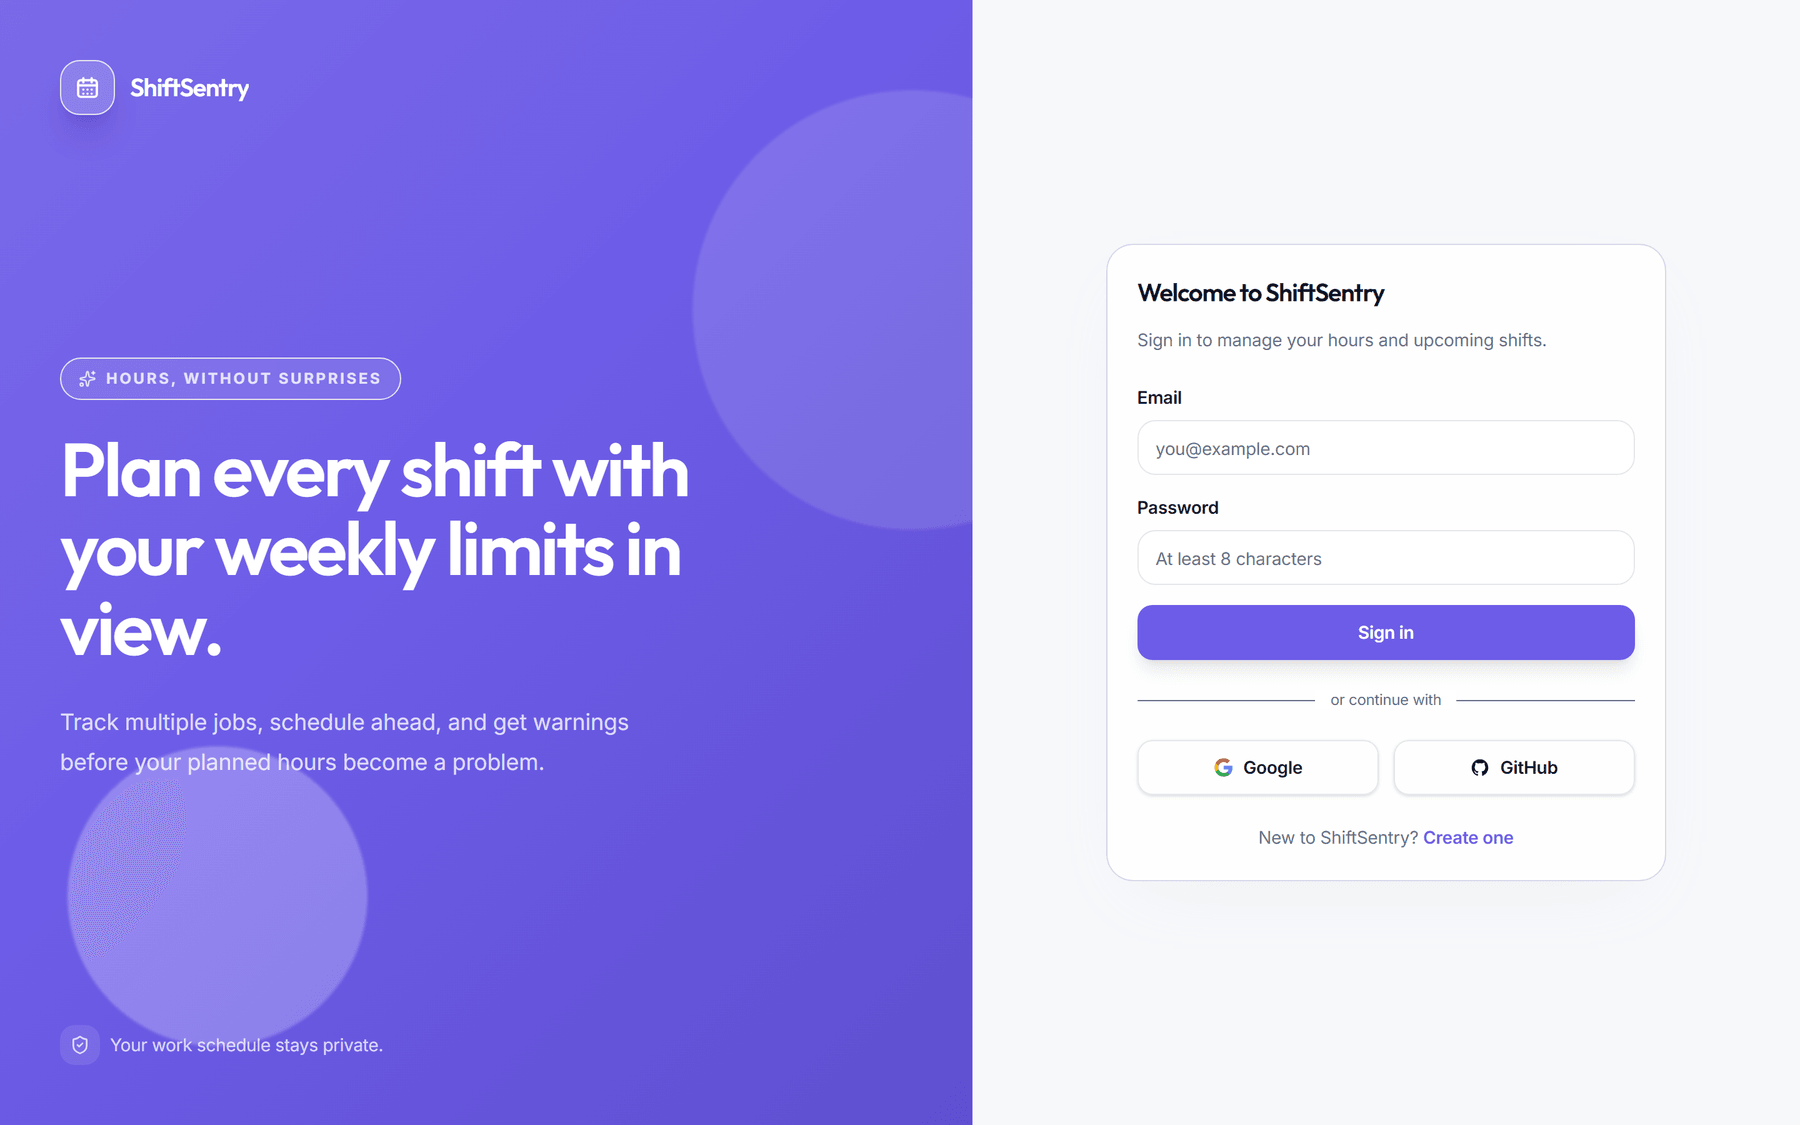
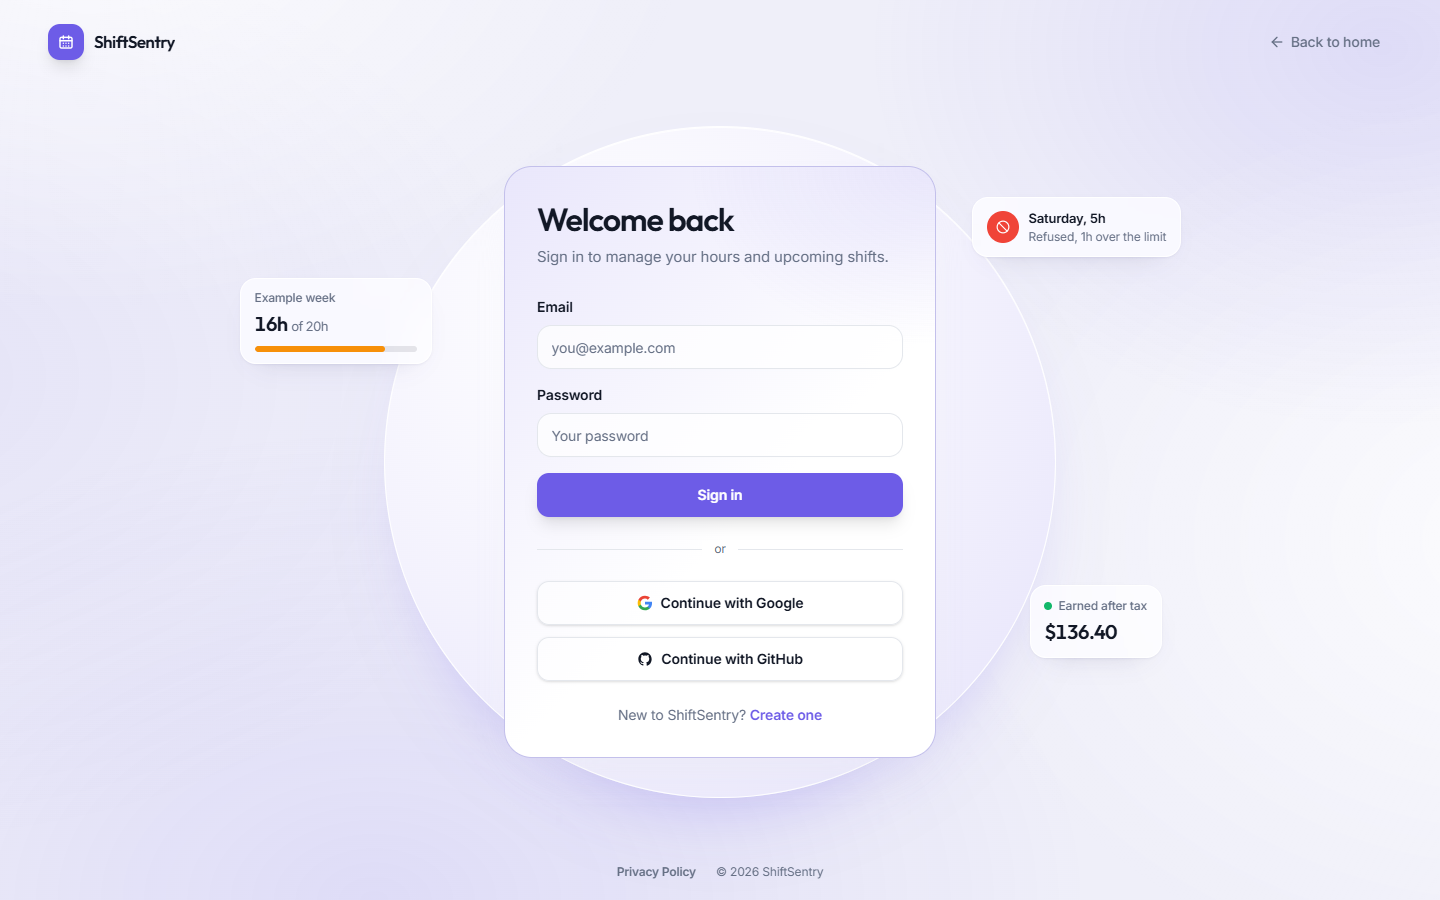
docs: refresh the README for the landing page, calendar, and Google sync
Adds landing and sign-in screenshots from a production build, and documents features the README had fallen behind on: the calendar page, read-only Google Calendar and shift sync, the installable app, and the Imposter game. Also lists the game and SQL test scripts and the Google OAuth redirect URI. No database or auth impact.

diff --git a/README.md b/README.md
@@ -26,6 +26,12 @@
 
 <div align="center">
 
+**Landing page**
+
+<img src="docs/screenshots/landing.png" alt="ShiftSentry landing page with the headline 'Every job, every shift, under your limit' beside lavender 3D glass art and example-week chips" width="92%" />
+
+<br /><br />
+
 **Desktop view**
 
 <img src="docs/screenshots/dashboard-desktop.png" alt="ShiftSentry dashboard showing the weekly cap, earnings, and monthly job allocation" width="92%" />
@@ -40,12 +46,12 @@
 
 **Sign in**
 
-<img src="docs/screenshots/login.png" alt="ShiftSentry sign-in page with email, Google, and GitHub options" width="92%" />
+<img src="docs/screenshots/login.png" alt="ShiftSentry sign-in box with email, Google, and GitHub options, centred on the landing page's lavender background" width="92%" />
 
 </div>
 
 > [!NOTE]
-> Captured from the app's built-in preview mode, which renders sample data when no Supabase credentials are present — no real user data is shown.
+> The dashboard images come from the app's built-in preview mode, which renders sample data when no Supabase credentials are present. The landing page and sign-in are public pages. No real user data is shown anywhere.
 
 <br />
 
@@ -66,8 +72,11 @@ Hours are counted in **your** time zone and **your** week, not the server's. An 
 | ⚠ **Stay under limits** | Get clear warnings at 80%, 90%, and 100% of global or per-job weekly caps. |
 | 💰 **Understand earnings** | Gross pay, tax, deductions, and net—filtered by this week, this month, the last 3 or 6 months, year to date, all time, or a custom span of months. |
 | 🧾 **Keep history honest** | A shift remembers the rate it was worked at, so a later raise never silently reprices work you already did. |
-| 🔒 **Use secure sign-in** | Sign in with email, Google, or GitHub through Supabase Auth. |
-| 📱 **Work comfortably anywhere** | Responsive dashboard, mobile navigation, keyboard-accessible controls, and light or dark themes. |
+| 🗓 **See it on a calendar** | Week and month views of your shifts. Overnight shifts appear on both days and clashes are marked. |
+| 🔗 **Connect Google Calendar** | Optional and read-only: show your Google events beside your shifts and get a warning when a new shift clashes with one. A job can also opt in to adding shifts automatically from matching Google events. Nothing is ever written to Google. |
+| 🔒 **Use secure sign-in** | Sign in with email, Google, or GitHub through Supabase Auth. Signed out, the site's home page is a public landing page with an interactive example week. |
+| 📱 **Work comfortably anywhere** | Responsive dashboard, mobile navigation, keyboard-accessible controls, light or dark themes, and an installable app with an offline fallback page. |
+| 🎭 **Take a break** | Imposter, a small party word game for friends, with QR-code and link invites. |
 
 <br />
 
@@ -76,11 +85,13 @@ Hours are counted in **your** time zone and **your** week, not the server's. An 
 | Area | Technologies Used |
 | :--- | :--- |
 | **App Framework** | Next.js 16 App Router, React 19, TypeScript |
-| **Styling & Interaction** | Tailwind CSS v4, Radix Dropdown Menu, an in-house ARIA listbox, Inter, Outfit |
+| **Styling & Interaction** | Tailwind CSS v4, Radix Dropdown Menu, an in-house ARIA listbox, Inter, Outfit, CSS-only motion and native View Transitions |
+| **Landing Art** | A Three.js scene rendered offline to WebP by `scripts/render-welcome-3d.mjs`; Three.js is not part of the app bundle |
 | **Data & Auth** | Supabase Auth, PostgreSQL, Row Level Security, `@supabase/ssr`, `@supabase/server` |
 | **Server Admin** | Prisma 7 with PostgreSQL |
 | **Charts & Dates** | Recharts, `date-fns`, `date-fns-tz` |
-| **Validation & Tests** | Zod, Node.js test runner via `tsx` |
+| **Integrations** | Google Calendar API (read-only scopes), tokens encrypted with AES-256-GCM |
+| **Validation & Tests** | Zod, Node.js test runner via `tsx`, SQL suites against a throwaway Postgres in Docker |
 | **Delivery** | Docker, GitHub Actions, Nginx on EC2 |
 
 <br />
@@ -98,6 +109,7 @@ flowchart LR
   Admin --> SecretClient[Supabase secret-key client]
   Prisma --> Database
   SecretClient --> Database
+  Actions -. optional, read-only .-> Google[Google Calendar API]
 ```
 
 > **Note:** Browser-facing features use Supabase's publishable key and Row Level Security. Prisma and the secret-key client are server-only administrative tools; neither belongs in a browser bundle.
@@ -108,7 +120,9 @@ flowchart LR
 
 * **Rules enforced twice.** Weekly caps, earnings snapshots, the tax-plus-deductions ceiling, and a no-overlapping-shifts constraint are enforced in TypeScript *and* independently by Postgres triggers—so a direct authenticated write that skips the app is rejected too.
 * **Row Level Security everywhere.** Every user-facing read and write goes through a cookie-bound publishable-key client; the secret key never reaches the browser.
-* **Strict CSP.** No external script, style, image, or font hosts—fonts are bundled, not fetched.
+* **Strict CSP.** A per-request nonce with `'strict-dynamic'` and no `'unsafe-inline'` for scripts. No external script, style, image, or font hosts—fonts are bundled, not fetched.
+* **Disabled means disabled.** Disabling an account is enforced by database policies, so a session token issued before the ban cannot keep writing.
+* **Google access is read-only.** Calendar tokens are stored encrypted and every Google call is made server-to-server. Event titles and details are never stored. The only thing kept is the start and end times of events a job has opted in to sync, which become shifts.
 * **Guarded pipeline.** Gitleaks secret scanning, CodeQL, a production dependency audit, and a Docker build check all gate `main` before a release is built.
 
 <br />
@@ -117,11 +131,14 @@ flowchart LR
 
 ```
 src/
-├── app/                    App Router pages, actions, callback, and health route
-├── components/             Shared dashboard, navigation, and UI primitives
-├── lib/                    Auth, Supabase, validation, calculations, and types
+├── app/                    App Router pages, actions, callbacks, integrations, and health route
+├── components/             Dashboard, calendar, game, landing, navigation, and UI primitives
+├── lib/                    Auth, Supabase, Google, validation, calculations, and types
 prisma/                     Prisma schema
+public/welcome/             Pre-rendered landing art and dashboard captures
+scripts/                    SQL test runner, audit gate, and the landing-art renderer
 supabase/migrations/        Immutable timestamped production SQL migrations
+supabase/tests/             SQL suites for the triggers, policies, and grants
 docs/screenshots/           Images used by this README
 .github/workflows/          CI, scheduled audit, and scheduled CodeQL workflows
 ```
@@ -134,7 +151,7 @@ docs/screenshots/           Images used by this README
 
 - **Node.js 24** or a compatible runtime supported by Next.js 16
 - A **Supabase project** with email, Google, and GitHub sign-in enabled
-- **Docker** (only if testing the production image locally)
+- **Docker** (only for the SQL tests or for testing the production image locally)
 
 ### 1. Install & Configure
 
@@ -167,12 +184,16 @@ http://localhost:3000/auth/callback
 
 Enable Email, Google, and GitHub under **Authentication → Sign In / Providers**. Each OAuth provider points back to Supabase's provider callback, `https://<project-ref>.supabase.co/auth/v1/callback`; Supabase then redirects to this app's allowed callback.
 
+The optional Google Calendar connection is a separate Google OAuth client, not the Supabase Google provider. Register `http://localhost:3000/integrations/google/callback` as its authorized redirect URI, and generate `GOOGLE_TOKEN_ENCRYPTION_KEY` as 32 random bytes in base64 (the command is in `.env.example`).
+
 ### 4. Verify & Run
 
 ```
 npm run db:generate
 npm run test:earnings
 npm run test:auth
+npm run test:game
+npm run test:sql
 npx tsc --noEmit
 npm run lint
 npm run audit:production
@@ -187,7 +208,7 @@ These are the same checks the pipeline runs on every pull request:
 <a href="https://github.com/pokharelsandeep333-commits/ShiftSentry/actions/workflows/ci.yml"><img alt="CI status" src="https://img.shields.io/github/actions/workflow/status/pokharelsandeep333-commits/ShiftSentry/ci.yml?branch=main&style=for-the-badge&logo=githubactions&logoColor=white&label=CI" /></a>
 
 > [!TIP]
-> Without Supabase configuration the root route intentionally renders a read-only dashboard preview with sample data, so the app boots and is browsable before you have any credentials.
+> Without Supabase configuration the root route intentionally renders a read-only dashboard preview with sample data, so the app boots and is browsable before you have any credentials. With Supabase configured, a signed-out visit to `/` shows the public landing page instead, at the same address.
 
 <br />
 
